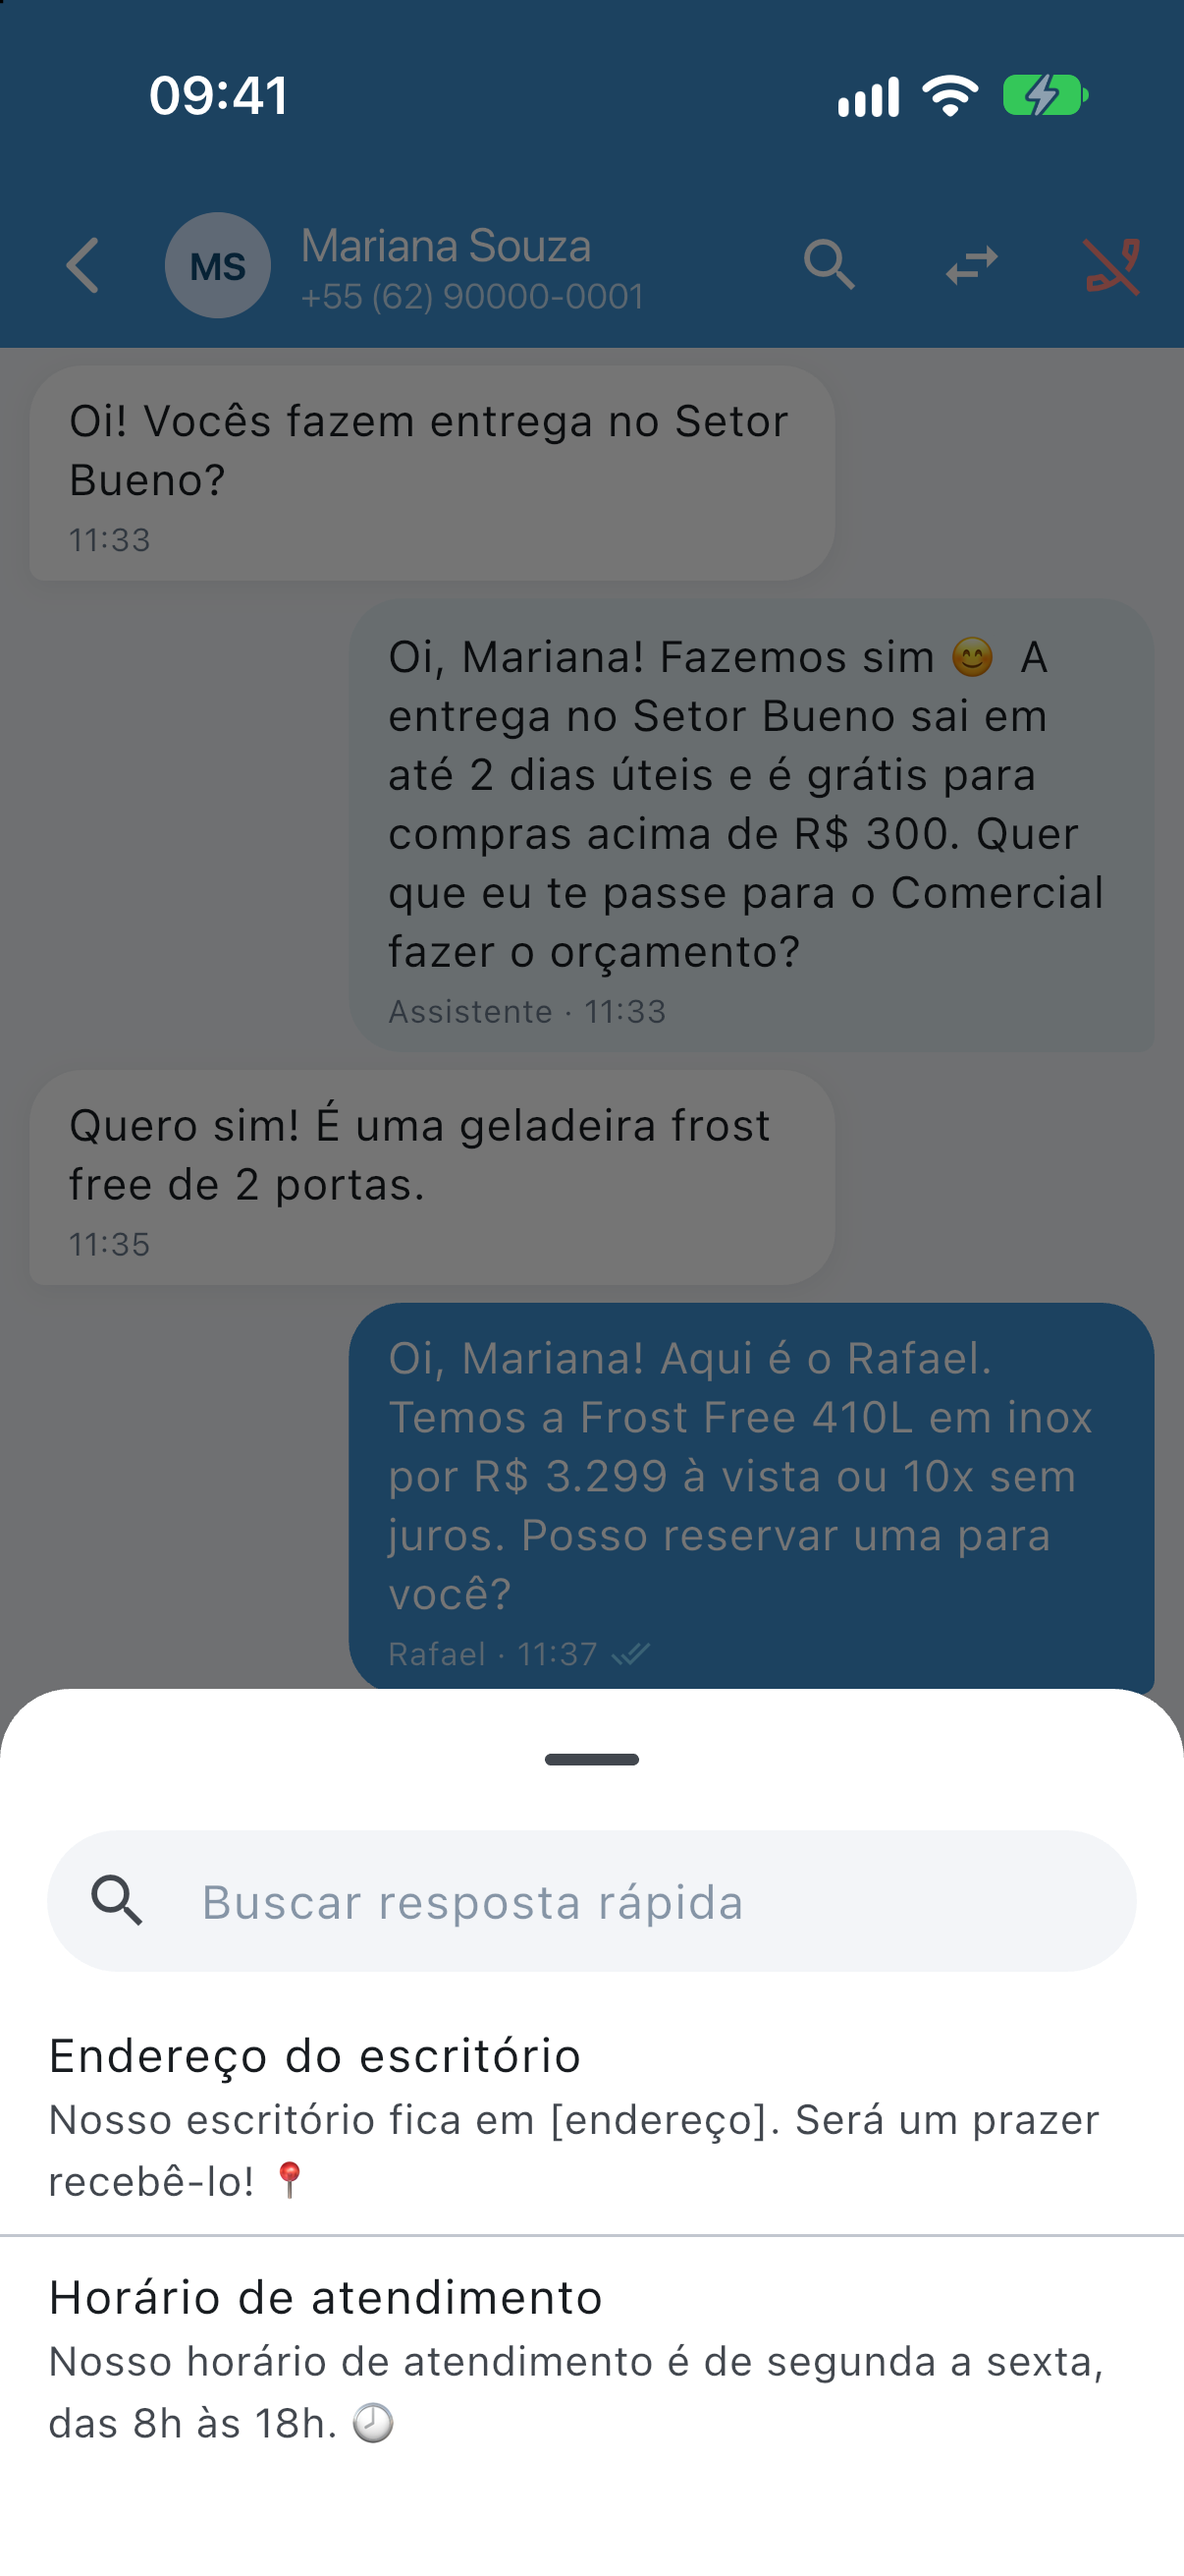
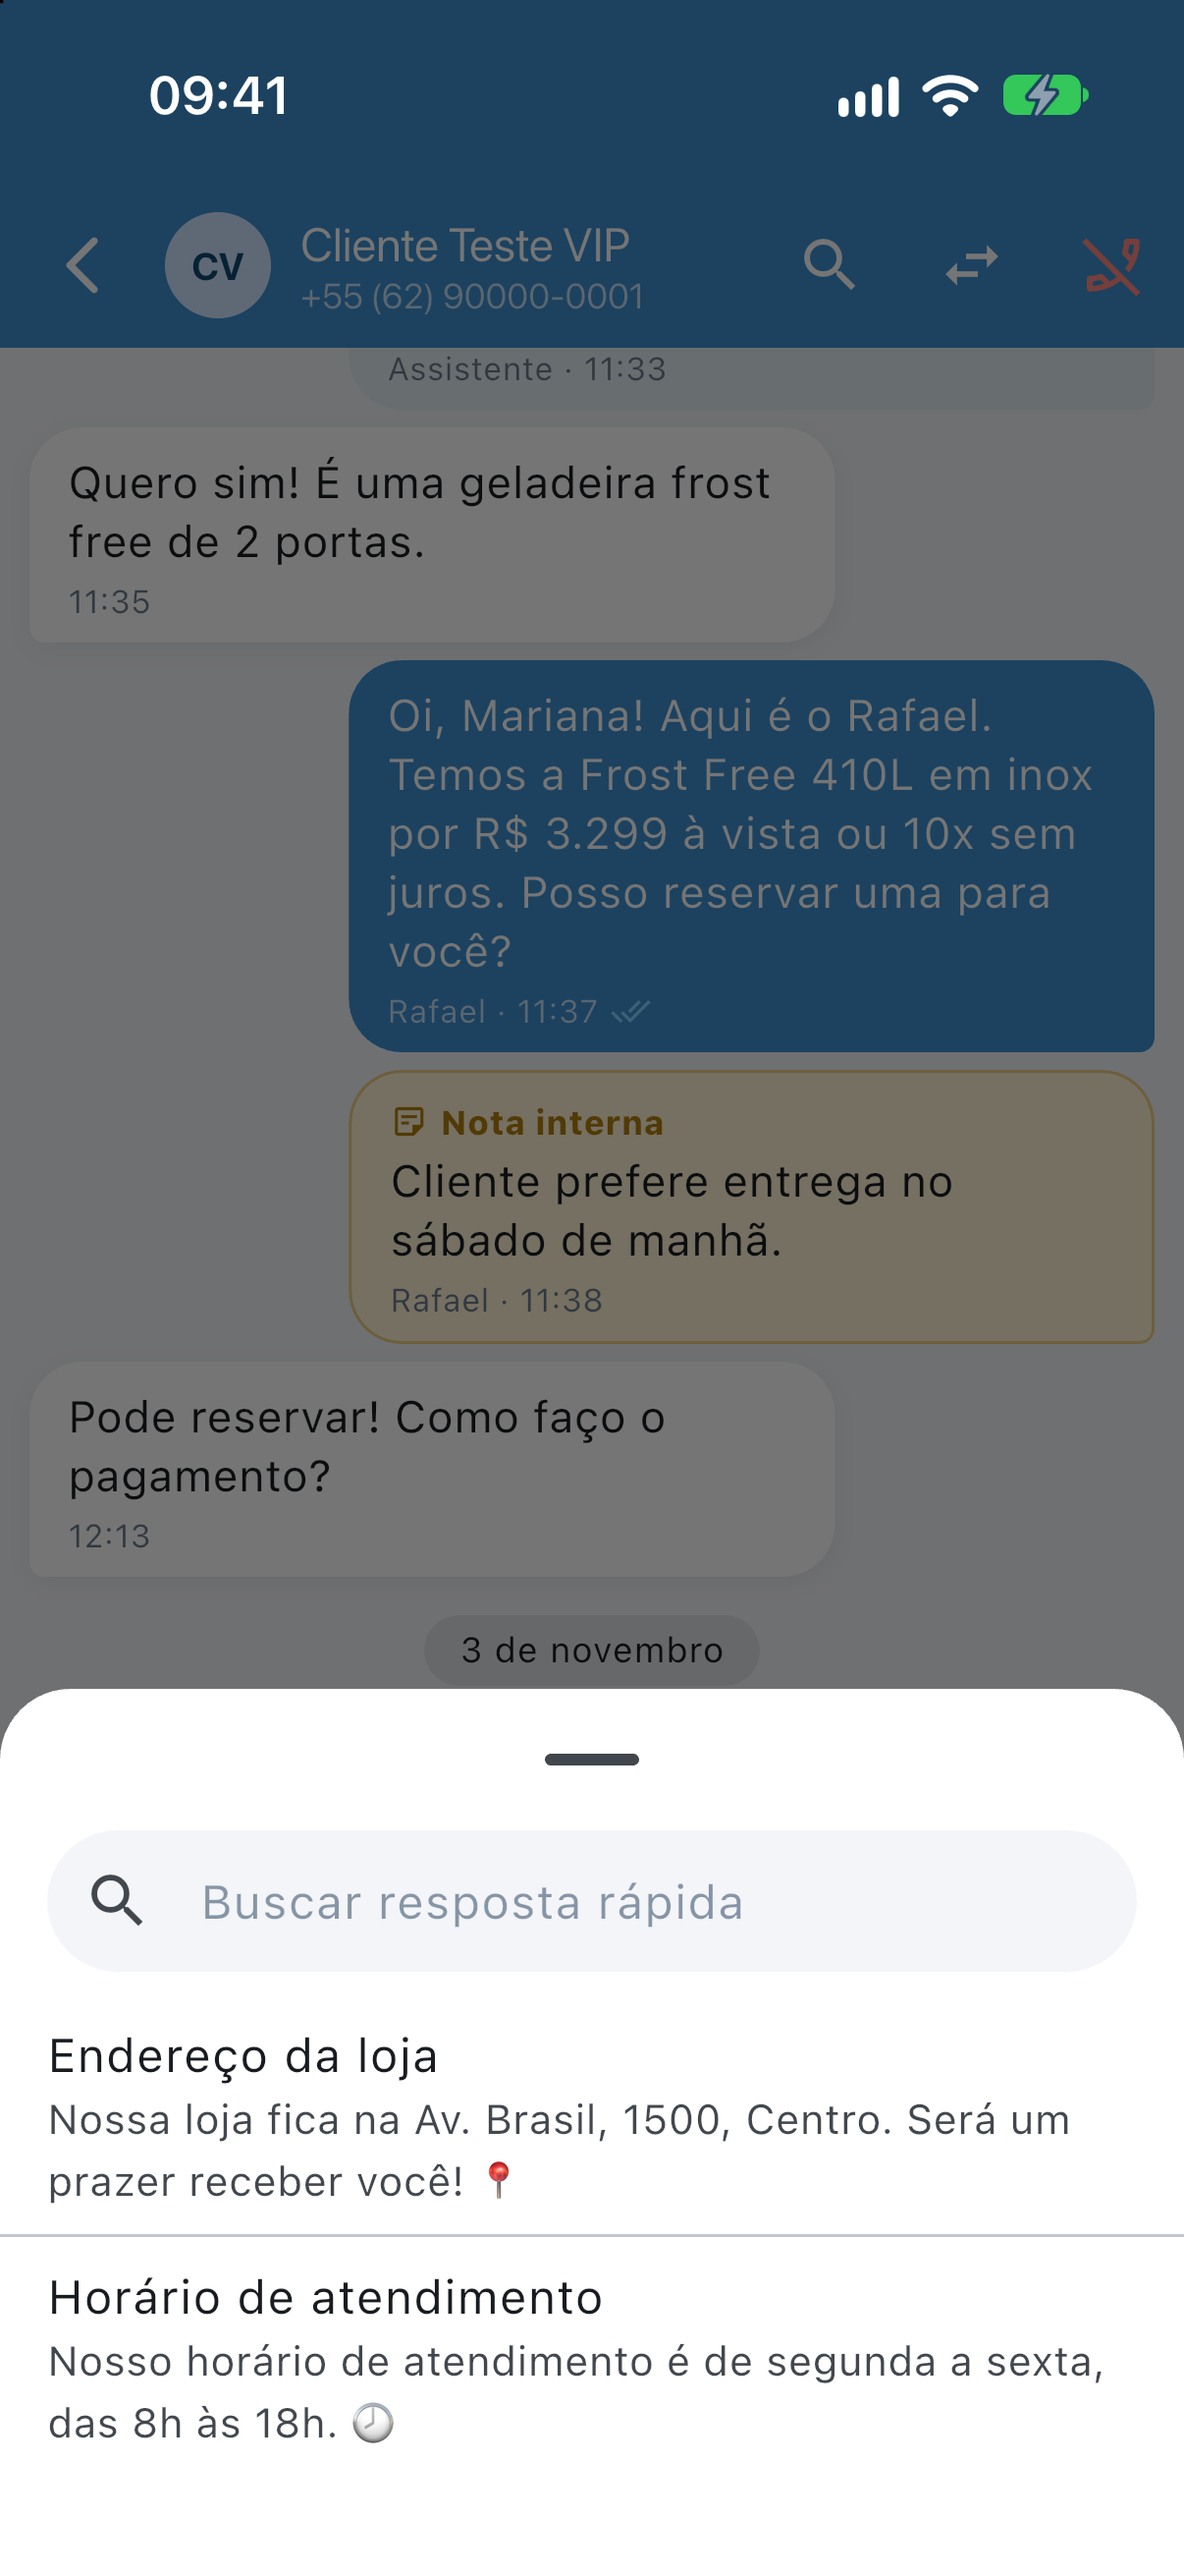
Capturas da App Store para a 1.0.5: 03 refeita e 07 com a sugestão da IA

diff --git a/SETUP-MAC.md b/SETUP-MAC.md
@@ -195,3 +195,10 @@ e enviar para revisão. O Windows conduz esta parte com o Alexandre no App Store
   3f876dd, Segati c7729ba, DIOGO dcac7ce, ejur f543aec e UAU 279c5f9; testado no demo com "o processo ta parado
   esperando o juiz…" → "Mariana, o processo está parado, aguardando o juiz. Assim que sair a decisão, te aviso.".
   **Não precisa de build novo**: os IPAs 1.0.5 (6) e 1.0.11 (13) já gerados valem. Caminhos novos no Mac anotados.
+- **2026-11-03 (Mac)** — Capturas para a 1.0.5 em `design/app-store/iphone-6.3/` (1206×2622, 9:41, demo pelo
+  `ZYZB9DQ6`): **03 refeita** (respostas rápidas agora mostram "Endereço da loja — Av. Brasil, 1500, Centro" e
+  "Horário de atendimento") e **07 nova, opcional**: conversa com "Melhorar meu texto" e a sugestão da IA na
+  caixa, para mostrar a novidade na loja. As outras (01, 02, 04–06) seguem iguais. Atenção: a conversa da Mariana
+  agora se chama **"Cliente Teste VIP"** no demo (aparece no topo da 03 e da 07); se preferir "Mariana Souza" na
+  loja, renomear no demo e pedir as duas de novo. O aviso de notificação do iOS foi respondido pelo próprio teste
+  temporário (mock do canal do `flutter_local_notifications`), por isso não aparece.
